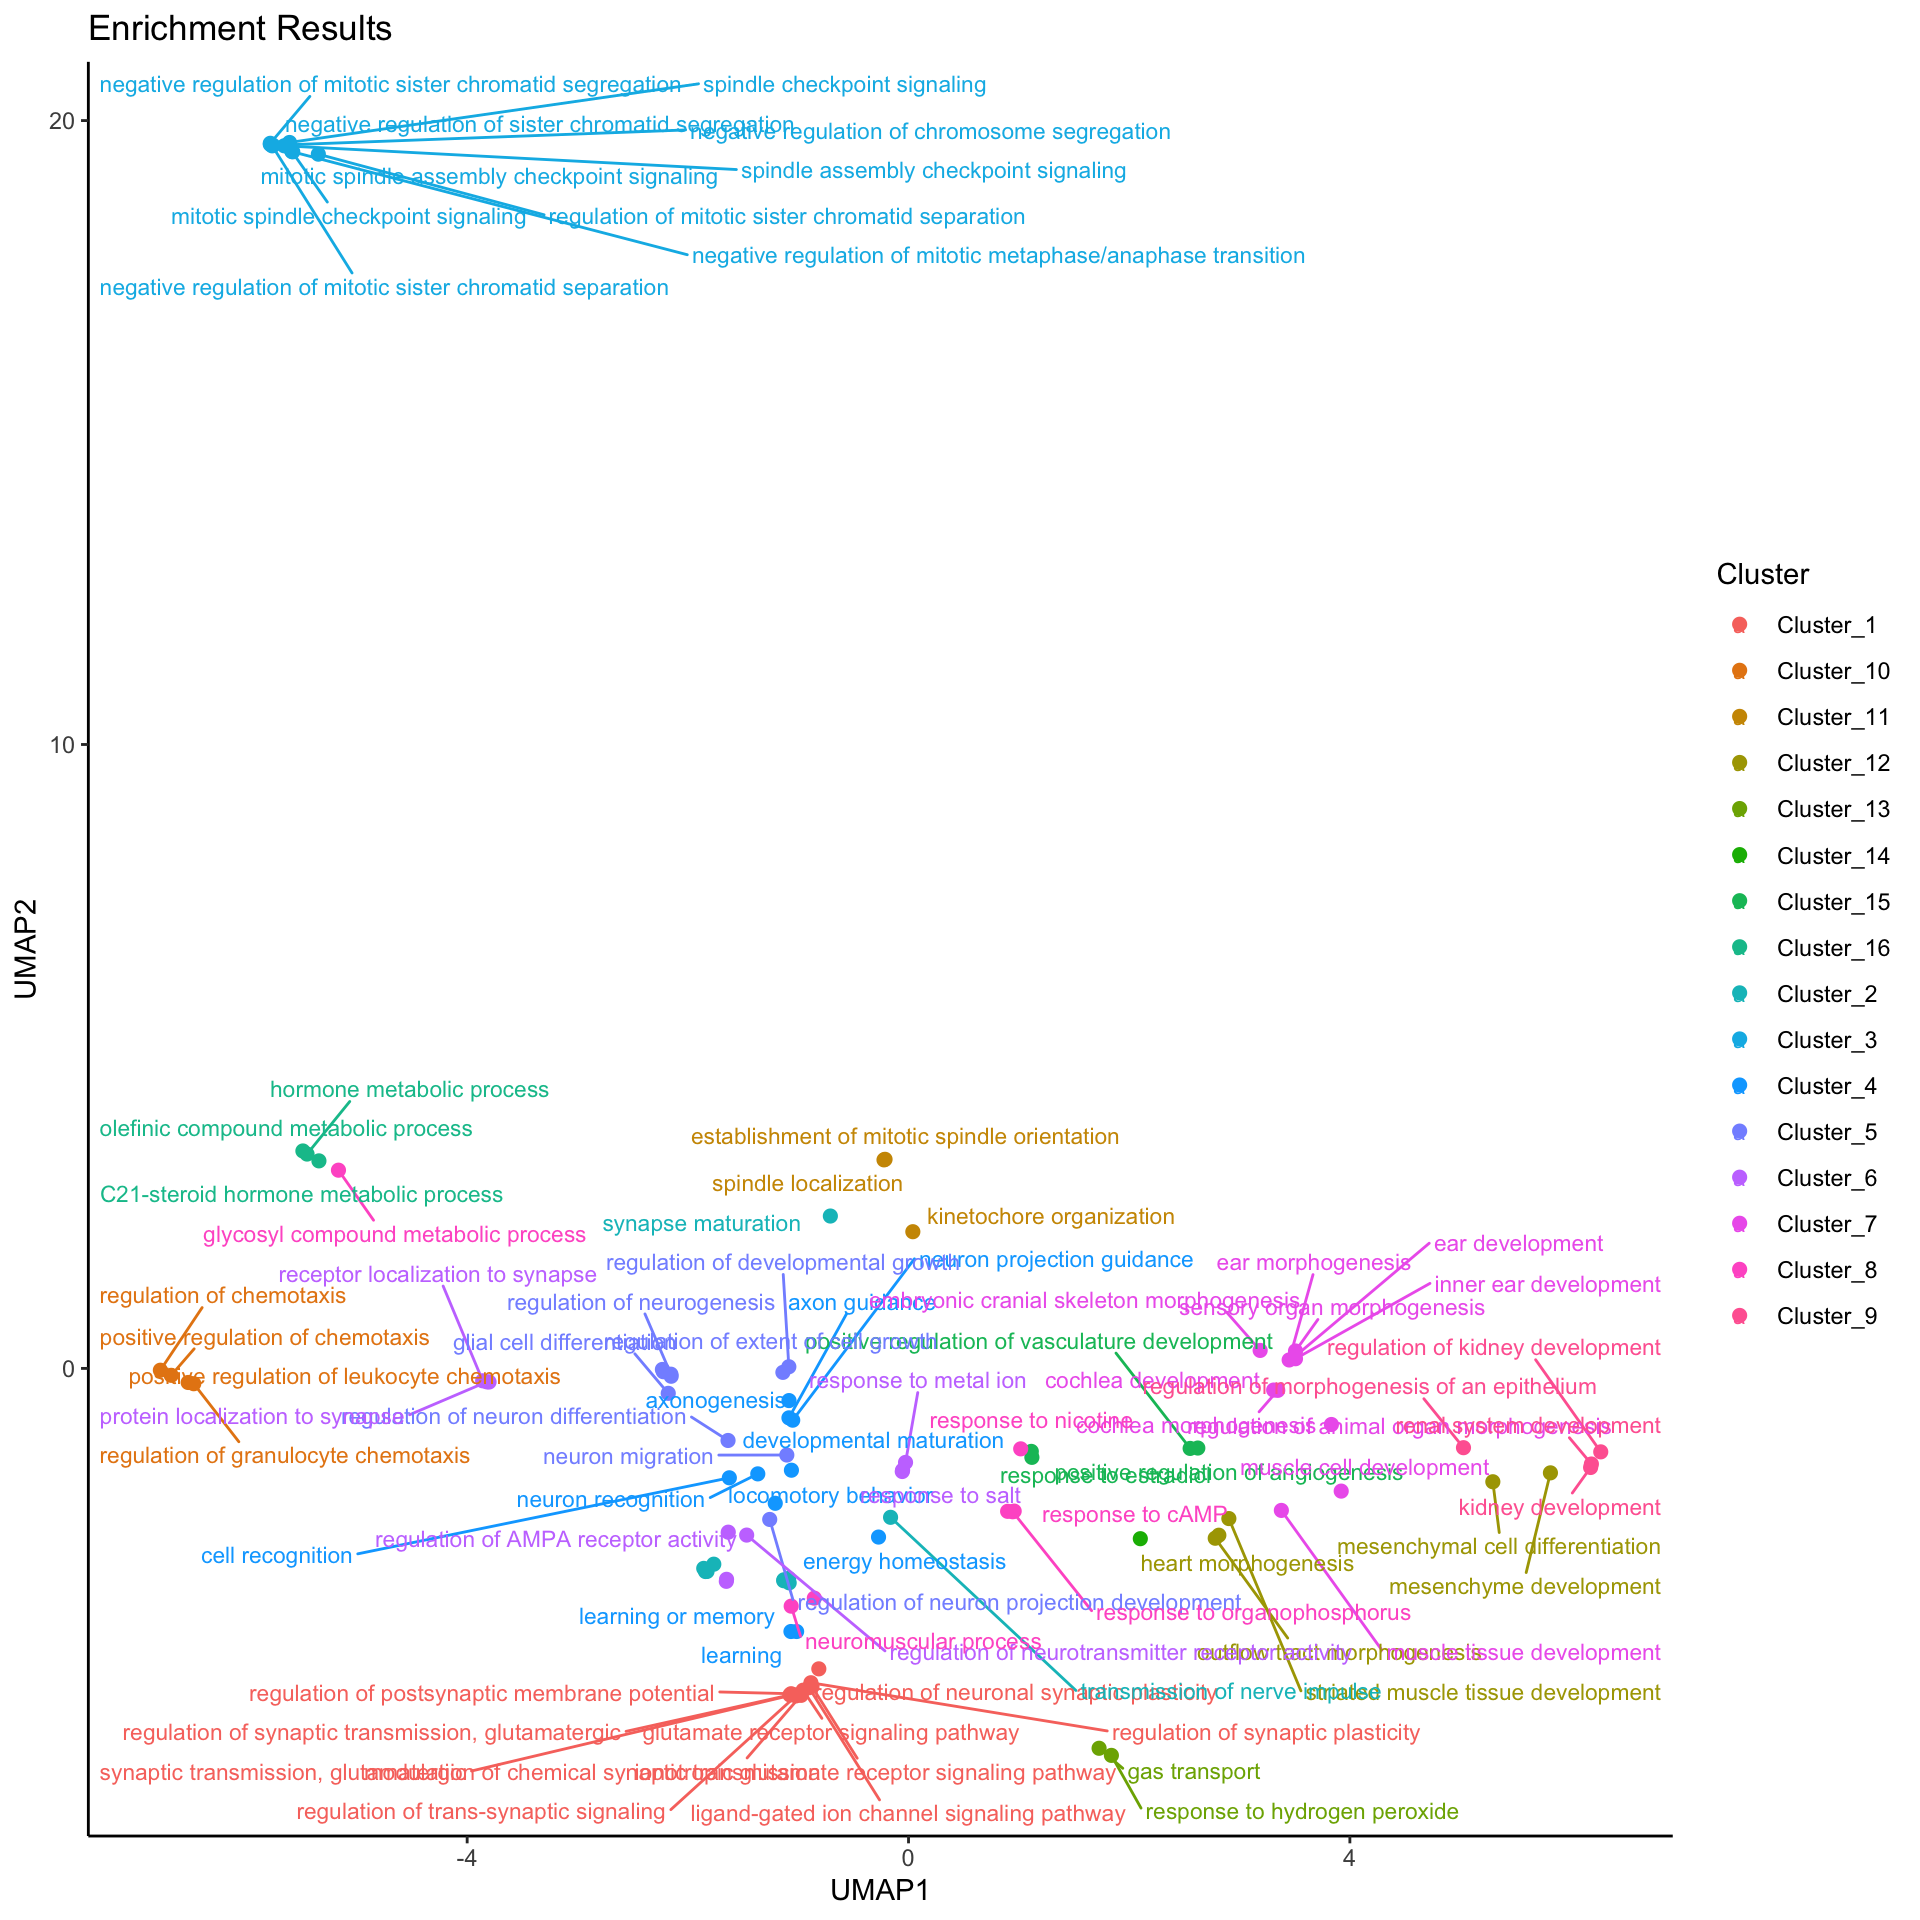
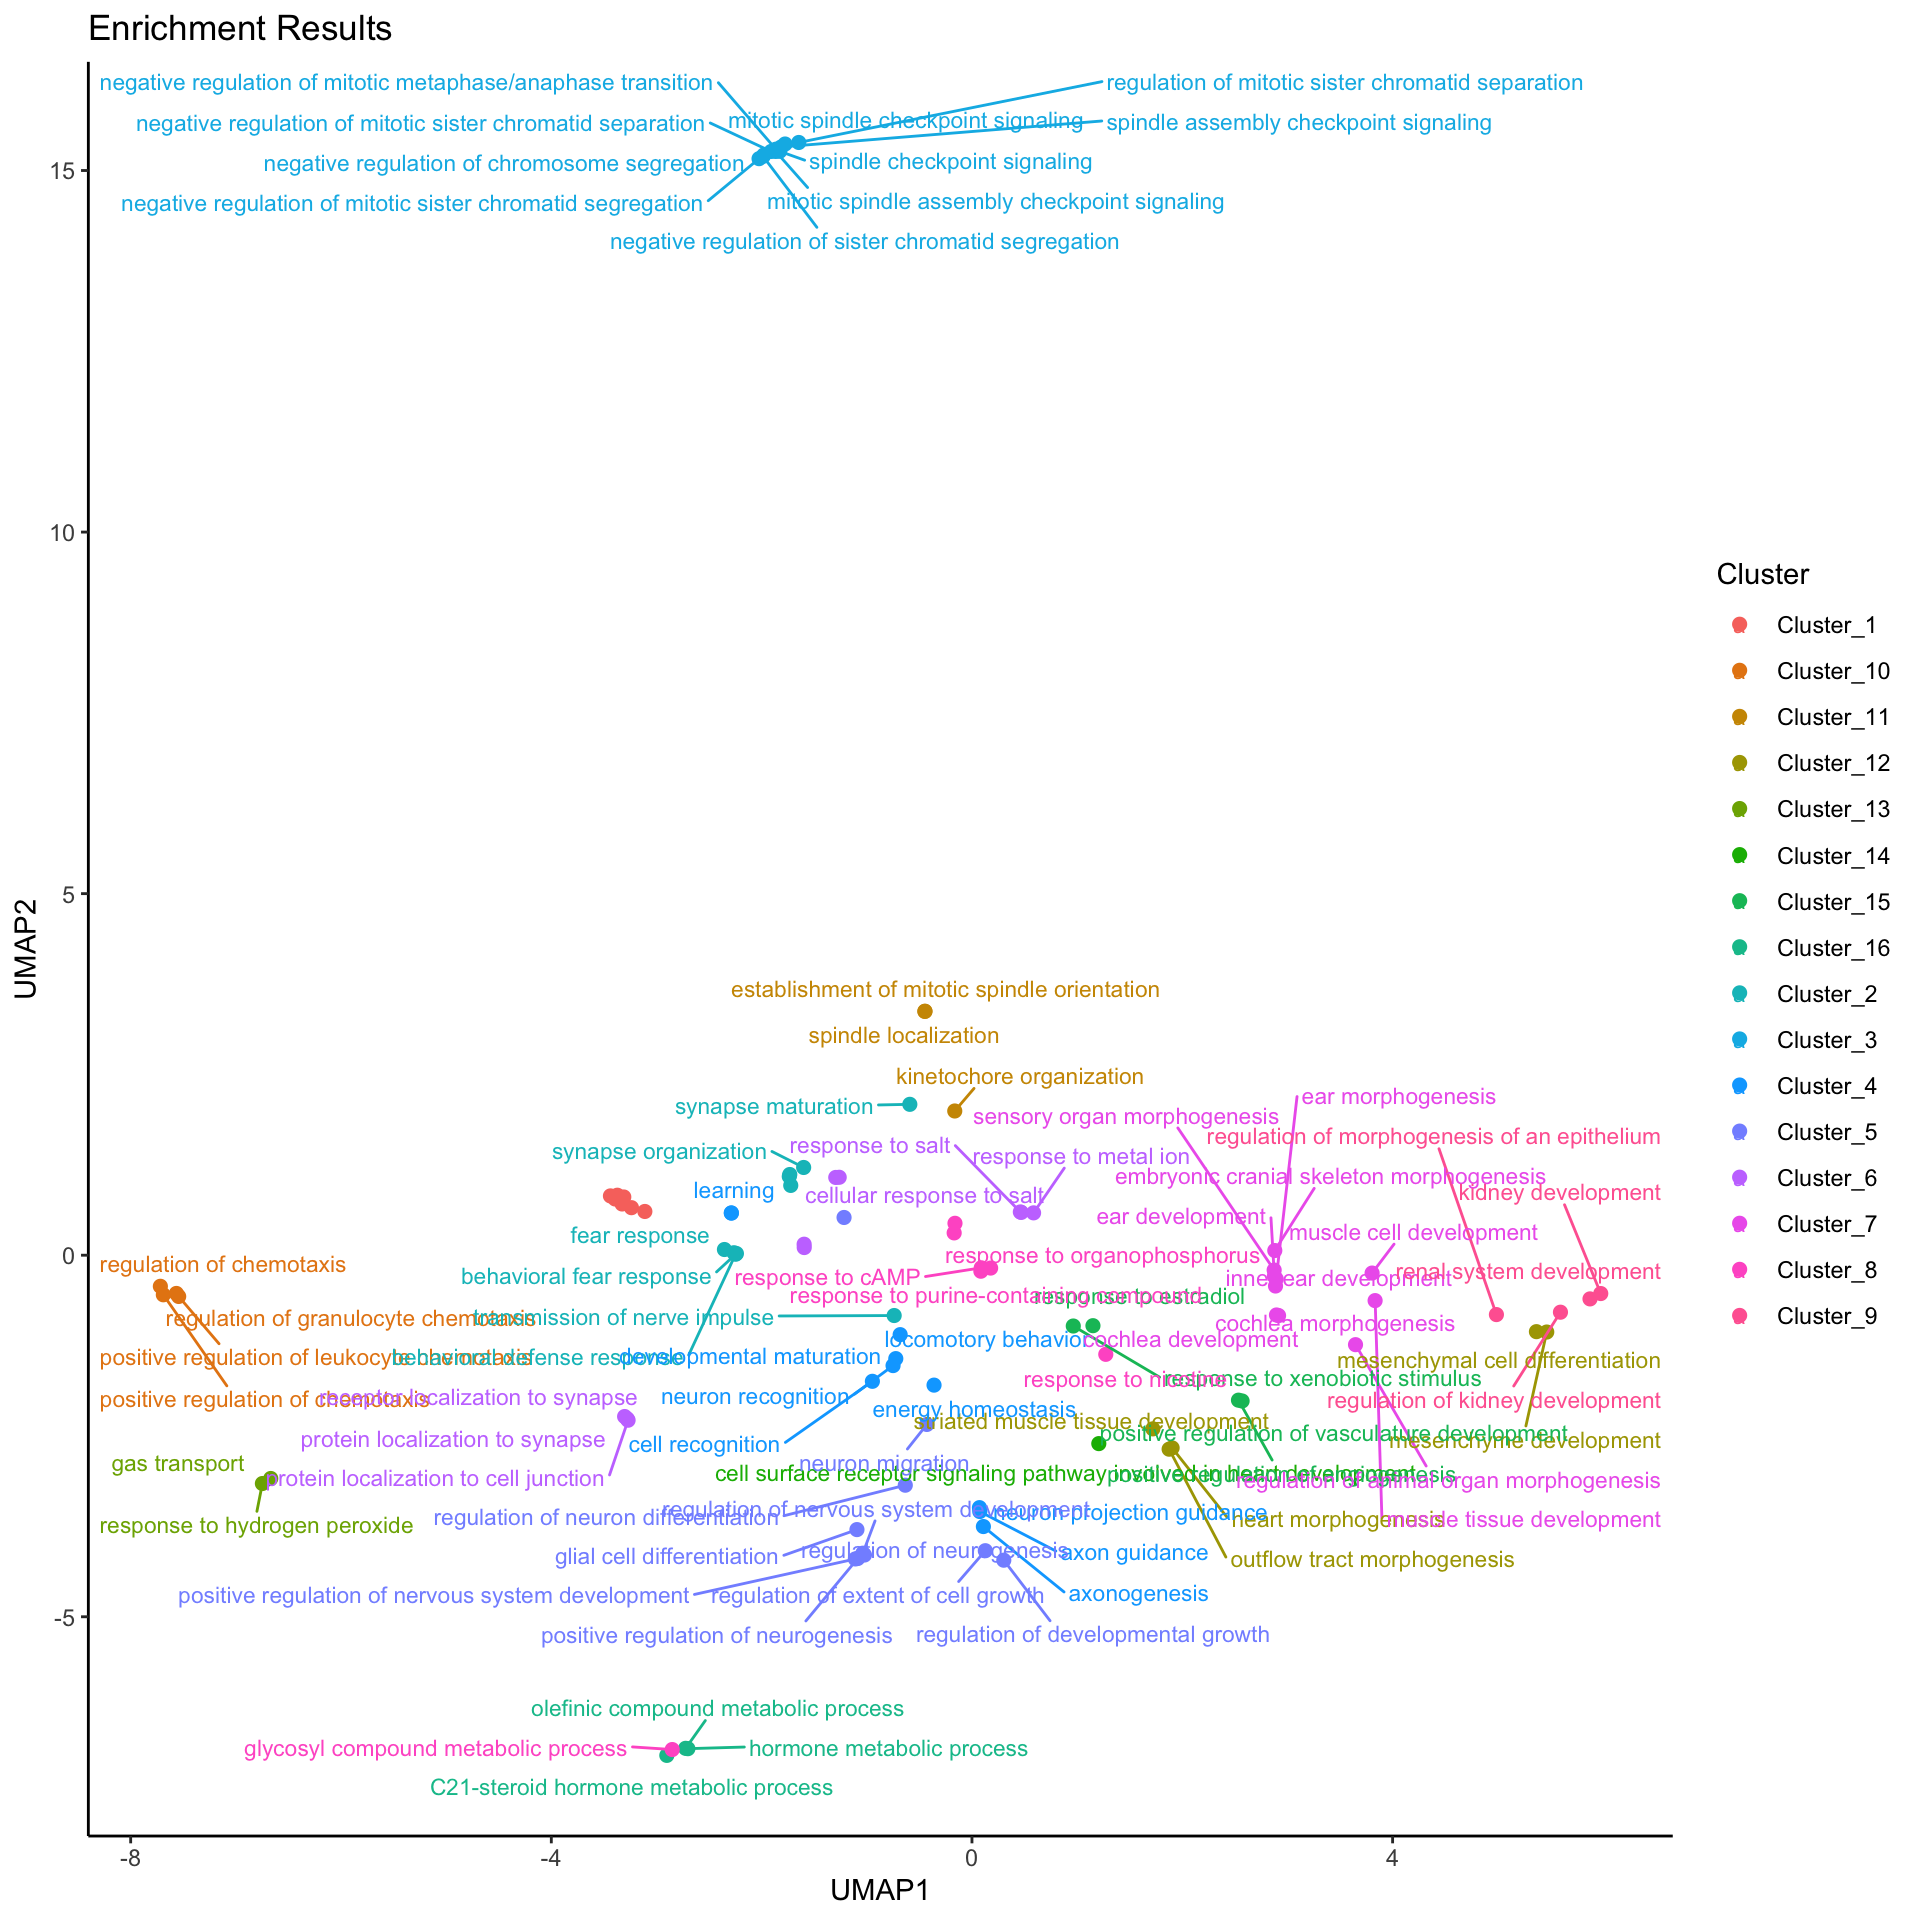
Finish 0.5

diff --git a/_site/index.html b/_site/index.html
@@ -146,8 +146,8 @@ pre > code.sourceCode > span > a:first-child::before { text-decoration: underlin
 </div>
       </div> <!-- /container-fluid -->
     </nav>
-  <div id="quarto-announcement" data-announcement-id="358471314e40b995cd7f1cab229b564e" class="alert alert-primary hidden"><i class="bi bi-info-circle quarto-announcement-icon"></i><div class="quarto-announcement-content">
-<p><strong>EnrichGT &lt;- </strong> Fast, light weight enrichment analysis + explainable re-clustered HTML tables</p>
+  <div id="quarto-announcement" data-announcement-id="14765f2f13011edb176e062ef7d052b4" class="alert alert-primary hidden"><i class="bi bi-info-circle quarto-announcement-icon"></i><div class="quarto-announcement-content">
+<p><strong>Version 0.5</strong> Release (2024-12)</p>
 </div></div>
 </header>
 <!-- content -->
@@ -159,34 +159,32 @@ pre > code.sourceCode > span > a:first-child::before { text-decoration: underlin
     <h2 id="toc-title">On this page</h2>
    
   <ul>
-  <li><a href="#overview" id="toc-overview" class="nav-link active" data-scroll-target="#overview">Overview</a></li>
+  <li><a href="#overview" id="toc-overview" class="nav-link active" data-scroll-target="#overview">Overview</a>
+  <ul class="collapse">
+  <li><a href="#highlights" id="toc-highlights" class="nav-link" data-scroll-target="#highlights">Highlights</a></li>
+  <li><a href="#workflows" id="toc-workflows" class="nav-link" data-scroll-target="#workflows">Workflows</a></li>
+  </ul></li>
   <li><a href="#install-enrichgt" id="toc-install-enrichgt" class="nav-link" data-scroll-target="#install-enrichgt">Install EnrichGT</a></li>
   <li><a href="#meet-enrichgt" id="toc-meet-enrichgt" class="nav-link" data-scroll-target="#meet-enrichgt">Meet EnrichGT</a>
-  <ul>
+  <ul class="collapse">
   <li><a href="#core-function" id="toc-core-function" class="nav-link" data-scroll-target="#core-function">Core Function</a>
-  <ul>
+  <ul class="collapse">
   <li><a href="#enrichment-of-genes" id="toc-enrichment-of-genes" class="nav-link" data-scroll-target="#enrichment-of-genes">Enrichment of genes</a></li>
   <li><a href="#enrichment-of-weighted-genes-gsea" id="toc-enrichment-of-weighted-genes-gsea" class="nav-link" data-scroll-target="#enrichment-of-weighted-genes-gsea">Enrichment of weighted genes (GSEA)</a></li>
   </ul></li>
-  <li><a href="#featured-function" id="toc-featured-function" class="nav-link" data-scroll-target="#featured-function">Featured Function</a>
-  <ul>
+  <li><a href="#re-enrich-function" id="toc-re-enrich-function" class="nav-link" data-scroll-target="#re-enrich-function">Re-ENRICH Function</a>
+  <ul class="collapse">
   <li><a href="#enrichment-of-enriched-results" id="toc-enrichment-of-enriched-results" class="nav-link" data-scroll-target="#enrichment-of-enriched-results">Enrichment of Enriched Results</a></li>
   </ul></li>
   <li><a href="#html-reports-gt-table" id="toc-html-reports-gt-table" class="nav-link" data-scroll-target="#html-reports-gt-table">HTML reports (gt table)</a></li>
   <li><a href="#ploting-functions" id="toc-ploting-functions" class="nav-link" data-scroll-target="#ploting-functions">Ploting functions</a>
-  <ul>
+  <ul class="collapse">
   <li><a href="#dot-plot" id="toc-dot-plot" class="nav-link" data-scroll-target="#dot-plot">Dot Plot</a></li>
   <li><a href="#umap-plot" id="toc-umap-plot" class="nav-link" data-scroll-target="#umap-plot">UMAP Plot</a></li>
   </ul></li>
   <li><a href="#databases-helpers" id="toc-databases-helpers" class="nav-link" data-scroll-target="#databases-helpers">DataBases Helpers</a>
-  <ul>
-  <li><a href="#built-in-database-form-annotationdbi" id="toc-built-in-database-form-annotationdbi" class="nav-link" data-scroll-target="#built-in-database-form-annotationdbi">Built in database form AnnotationDbi</a>
   <ul class="collapse">
-  <li><a href="#go-database" id="toc-go-database" class="nav-link" data-scroll-target="#go-database">GO Database</a></li>
-  <li><a href="#reactome-database" id="toc-reactome-database" class="nav-link" data-scroll-target="#reactome-database">Reactome Database</a></li>
-  <li><a href="#progeny-database" id="toc-progeny-database" class="nav-link" data-scroll-target="#progeny-database">Progeny Database</a></li>
-  <li><a href="#collectri-database" id="toc-collectri-database" class="nav-link" data-scroll-target="#collectri-database">CollecTRI Database</a></li>
-  </ul></li>
+  <li><a href="#built-in-database-form-annotationdbi" id="toc-built-in-database-form-annotationdbi" class="nav-link" data-scroll-target="#built-in-database-form-annotationdbi">Built in database form AnnotationDbi</a></li>
   <li><a href="#read-addition-gene-sets-from-local" id="toc-read-addition-gene-sets-from-local" class="nav-link" data-scroll-target="#read-addition-gene-sets-from-local">Read Addition Gene Sets from local</a></li>
   <li><a href="#where-is-kegg" id="toc-where-is-kegg" class="nav-link" data-scroll-target="#where-is-kegg">Where is KEGG?</a></li>
   <li><a href="#reading-is-slow" id="toc-reading-is-slow" class="nav-link" data-scroll-target="#reading-is-slow">Reading is slow?</a></li>
@@ -233,6 +231,17 @@ pre > code.sourceCode > span > a:first-child::before { text-decoration: underlin
 
 <section id="overview" class="level1">
 <h1>Overview</h1>
+<section id="highlights" class="level2">
+<h2 class="anchored" data-anchor-id="highlights">Highlights</h2>
+<ul>
+<li><p>Efficient C++-based functions for rapid enrichment analysis;</p></li>
+<li><p>Simple input format, empowering new bioinformatic users;</p></li>
+<li><p>Re-clustering of enriched results provides clear and actionable insights</p></li>
+<li><p>User-friendly HTML output docs that is easy to read and interpret</p></li>
+</ul>
+</section>
+<section id="workflows" class="level2">
+<h2 class="anchored" data-anchor-id="workflows">Workflows</h2>
 <p>The functions from <code>EnrichGT</code> are starting with “egt_” or “database_”.</p>
 <div class="cell" data-layout-align="default">
 <div class="cell-output-display">
@@ -290,6 +299,7 @@ pre > code.sourceCode > span > a:first-child::before { text-decoration: underlin
 </div>
 </div>
 </div>
+</section>
 </section>
 <section id="install-enrichgt" class="level1">
 <h1>Install EnrichGT</h1>
@@ -389,7 +399,7 @@ Specify the column types or set `show_col_types = FALSE` to quiet this message.
 <span id="cb8-2"><a href="#cb8-2" aria-hidden="true" tabindex="-1"></a>ora_result <span class="ot">&lt;-</span> <span class="fu">egt_enrichment_analysis</span>(<span class="at">genes =</span> DEGexample_UpReg<span class="sc">$</span>...<span class="dv">1</span>,<span class="at">database =</span> <span class="fu">database_GO_BP</span>(org.Hs.eg.db))</span></code><button title="Copy to Clipboard" class="code-copy-button"><i class="bi"></i></button></pre></div>
 <div class="cell-output cell-output-stderr">
 <pre><code>
-✔ success loaded database, time used : 17.3381569385529</code></pre>
+✔ success loaded database, time used : 15.9615151882172</code></pre>
 </div>
 <div class="sourceCode cell-code" id="cb10"><pre class="sourceCode r code-with-copy"><code class="sourceCode r"><span id="cb10-1"><a href="#cb10-1" aria-hidden="true" tabindex="-1"></a><span class="fu">head</span>(ora_result)</span></code><button title="Copy to Clipboard" class="code-copy-button"><i class="bi"></i></button></pre></div>
 <div class="cell-output cell-output-stdout">
@@ -474,8 +484,8 @@ How to build pre-ranked gene set?
 <span id="cb13-12"><a href="#cb13-12" aria-hidden="true" tabindex="-1"></a>                         )</span></code><button title="Copy to Clipboard" class="code-copy-button"><i class="bi"></i></button></pre></div>
 </section>
 </section>
-<section id="featured-function" class="level2">
-<h2 class="anchored" data-anchor-id="featured-function">Featured Function</h2>
+<section id="re-enrich-function" class="level2">
+<h2 class="anchored" data-anchor-id="re-enrich-function">Re-ENRICH Function</h2>
 <section id="enrichment-of-enriched-results" class="level3">
 <h3 class="anchored" data-anchor-id="enrichment-of-enriched-results">Enrichment of Enriched Results</h3>
 <p>The enriched result is too messy? Clean up it!</p>
@@ -610,7 +620,7 @@ Warning
 <div class="cell">
 <div class="sourceCode cell-code" id="cb19"><pre class="sourceCode r code-with-copy"><code class="sourceCode r"><span id="cb19-1"><a href="#cb19-1" aria-hidden="true" tabindex="-1"></a><span class="fu">egt_plot_umap</span>(re_enrich)</span></code><button title="Copy to Clipboard" class="code-copy-button"><i class="bi"></i></button></pre></div>
 <div class="cell-output cell-output-stderr">
-<pre><code>Warning: ggrepel: 19 unlabeled data points (too many overlaps). Consider
+<pre><code>Warning: ggrepel: 22 unlabeled data points (too many overlaps). Consider
 increasing max.overlaps</code></pre>
 </div>
 <div class="cell-output-display">
@@ -676,7 +686,7 @@ How to specify species?
 <div class="cell">
 <div class="sourceCode cell-code" id="cb23"><pre class="sourceCode r code-with-copy"><code class="sourceCode r"><span id="cb23-1"><a href="#cb23-1" aria-hidden="true" tabindex="-1"></a>test <span class="ot">&lt;-</span> <span class="fu">database_GO_MF</span>(org.Hs.eg.db)</span></code><button title="Copy to Clipboard" class="code-copy-button"><i class="bi"></i></button></pre></div>
 <div class="cell-output cell-output-stderr">
-<pre><code>✔ success loaded database, time used : 5.21585512161255</code></pre>
+<pre><code>✔ success loaded database, time used : 5.38016104698181</code></pre>
 </div>
 <div class="sourceCode cell-code" id="cb25"><pre class="sourceCode r code-with-copy"><code class="sourceCode r"><span id="cb25-1"><a href="#cb25-1" aria-hidden="true" tabindex="-1"></a>test_reload <span class="ot">&lt;-</span> <span class="fu">database_GO_MF</span>(org.Hs.eg.db)</span></code><button title="Copy to Clipboard" class="code-copy-button"><i class="bi"></i></button></pre></div>
 <div class="cell-output cell-output-stderr">
